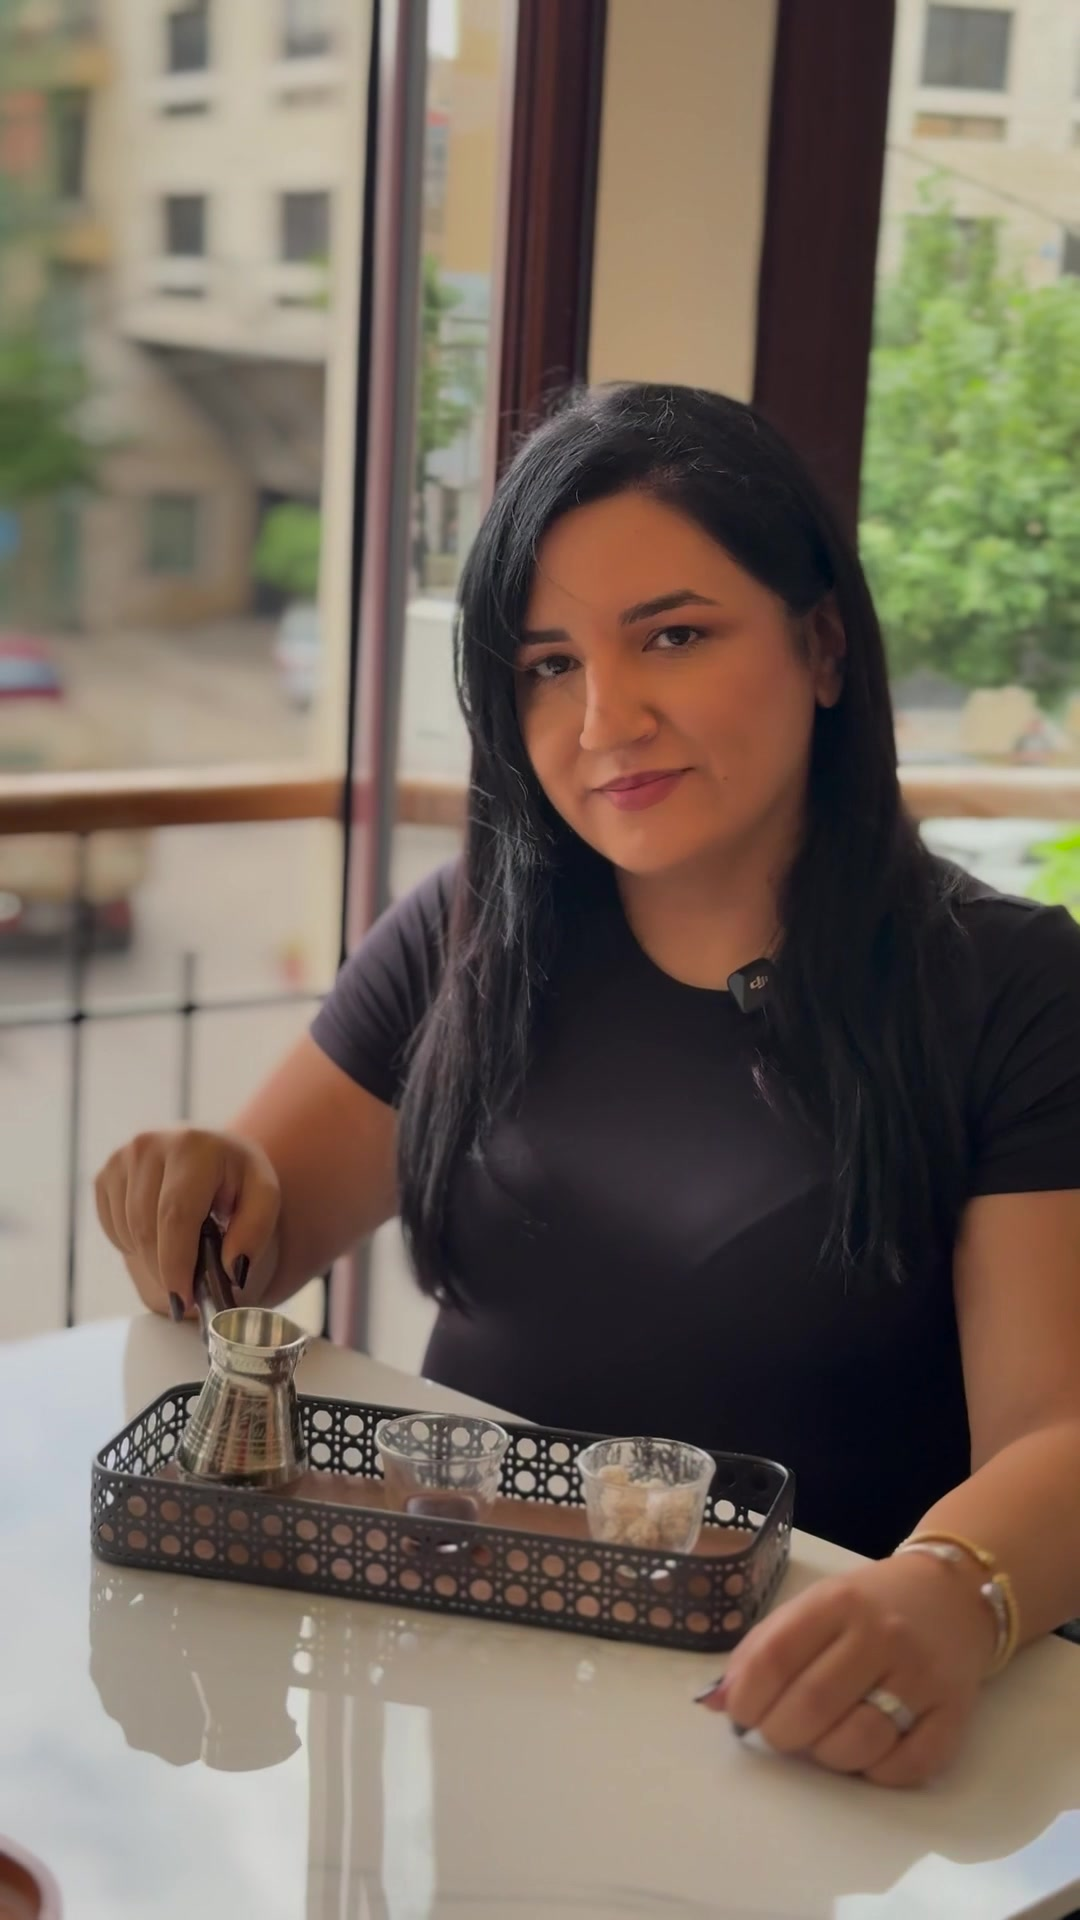
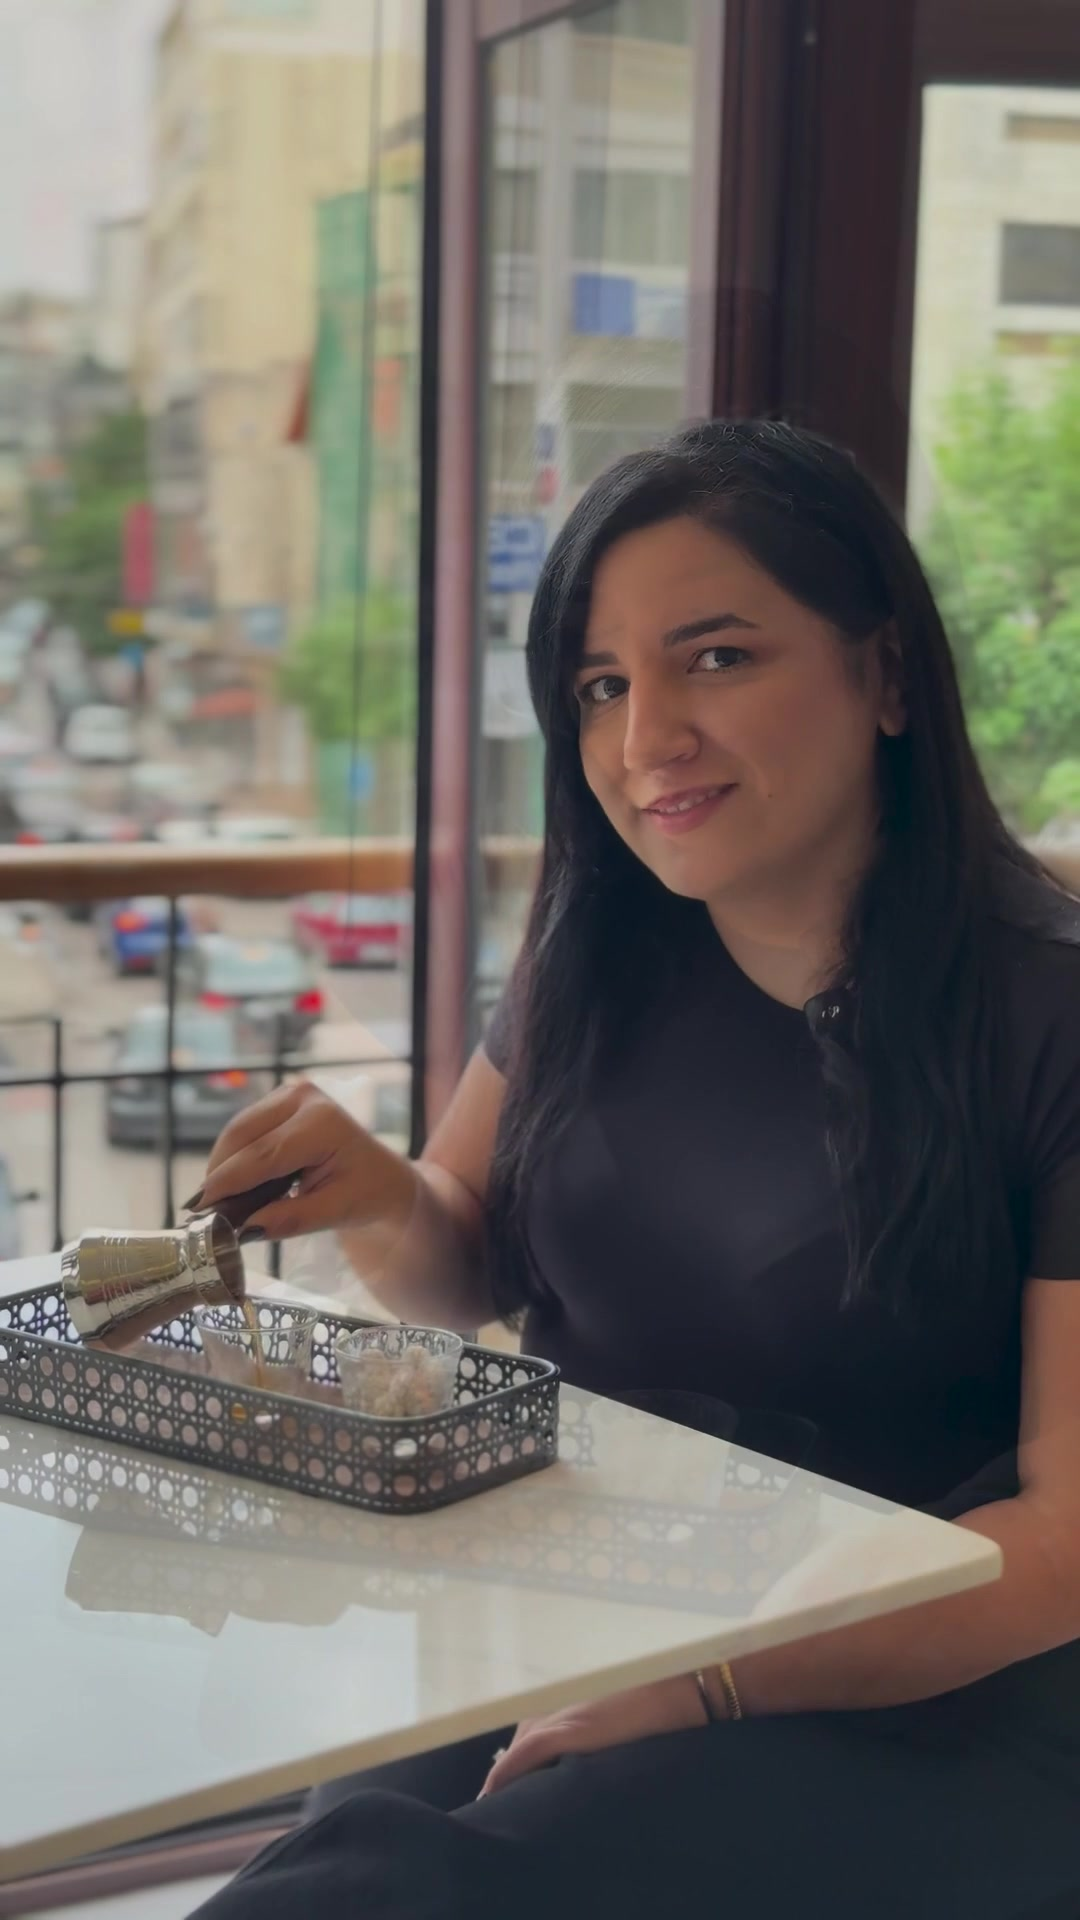
Pick smiling frames for the Bistro, Memberships and Hours covers
Claude-Session: https://claude.ai/code/session_01Ar7gFdemnr6dkvYanh3SU1

diff --git a/src/covers/specs.ts b/src/covers/specs.ts
@@ -7,11 +7,11 @@ import type {CoverSpec} from './BrandCover';
  *
  *   findus     Reel04 How To Find Us   15.65s  walking past the round building (no caption)
  *   atelier02  Reel02 Atelier          24.2s   plate covers "And the kids go home"
- *   bistro     Reel03 Bistro Cafe      5.2s    pouring coffee at the window (no caption)
- *   members    Reel06 Memberships      27.1s   plate covers "Which spark is yours?"
+ *   bistro     Reel03 Bistro Cafe      4.13s   smiling to camera at the window (no caption)
+ *   members    Reel06 Memberships      3.75s   smiling; band hides the top caption, plate the bottom one
  *   safety     Reel08 Safety v2        18.7s   behind the locked gate; band and plate cover its captions
  *   welcome    Reel09 Welcome Atelier  11.7s   boys at the building games (no caption)
- *   hours      Reel07 Hours Booking v3 18.9s   both hosts at the counter (no caption)
+ *   hours      Reel07 Hours Booking v3 0.0s    host smiling at the counter, first frame (no caption)
  */
 export const COVERS: CoverSpec[] = [
 	{
@@ -52,10 +52,10 @@ export const COVERS: CoverSpec[] = [
 	{
 		id: 'MembershipsCover',
 		photo: 'members.jpg',
-		shift: 250,
+		shift: -60,
 		title: 'Memberships at',
 		titleSize: 76,
-		plate: {top: 1170, minHeight: 330, icon: '2728', kicker: 'Explorer or Innovator?', text: 'Which spark is yours?'},
+		plate: {top: 1075, icon: '2728', kicker: 'Explorer or Innovator?', text: 'Which spark is yours?'},
 		line: 'Every visit leaves a mark',
 	},
 	{
@@ -83,10 +83,10 @@ export const COVERS: CoverSpec[] = [
 	{
 		id: 'HoursCover',
 		photo: 'hours.jpg',
-		shift: 0,
+		shift: 100,
 		title: 'Visit',
 		plate: {
-			top: 1270,
+			top: 1240,
 			kicker: 'Save this before you visit',
 			rows: [
 				{label: 'Café & Bistro', value: ['Tue to Sun', '8am to 10pm']},

diff --git a/src/covers/BrandCover.tsx b/src/covers/BrandCover.tsx
@@ -17,7 +17,7 @@ type Line = {text: string; small?: boolean; gold?: boolean};
 export type CoverSpec = {
 	id: string;
 	photo: string; // in public/covers/
-	shift: number; // px the photo is lowered so the band clears faces
+	shift: number; // px the photo is lowered so the band clears faces (negative raises it, e.g. to hide a top caption)
 	title: string;
 	titleSize?: number;
 	badge?: {icon: string; lines: Line[]; top: number; side: 'left' | 'right'};
@@ -66,7 +66,7 @@ export const BrandCover: React.FC<{spec: CoverSpec}> = ({spec}) => {
 	const {badge, plate} = spec;
 	return (
 		<AbsoluteFill style={{backgroundColor: CREAM}}>
-			<Img src={staticFile(`covers/${spec.photo}`)} style={{position: 'absolute', left: 0, top: spec.shift, width: 1080, height: 1920, objectFit: 'cover'}} />
+			<Img src={staticFile(`covers/${spec.photo}`)} style={{position: 'absolute', left: 0, top: spec.shift, width: 1080, height: 1920 - Math.min(0, spec.shift), objectFit: 'cover'}} />
 
 			{/* Cream title band */}
 			<AbsoluteFill
